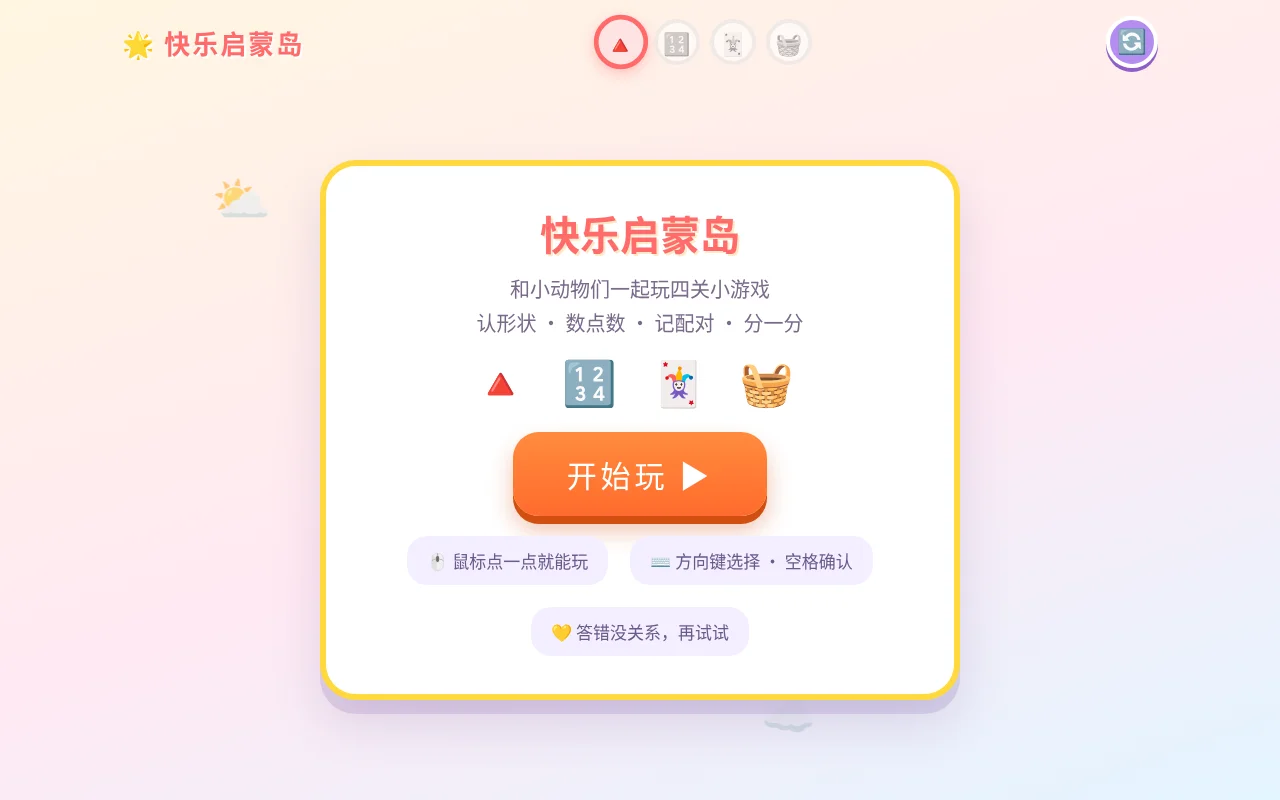
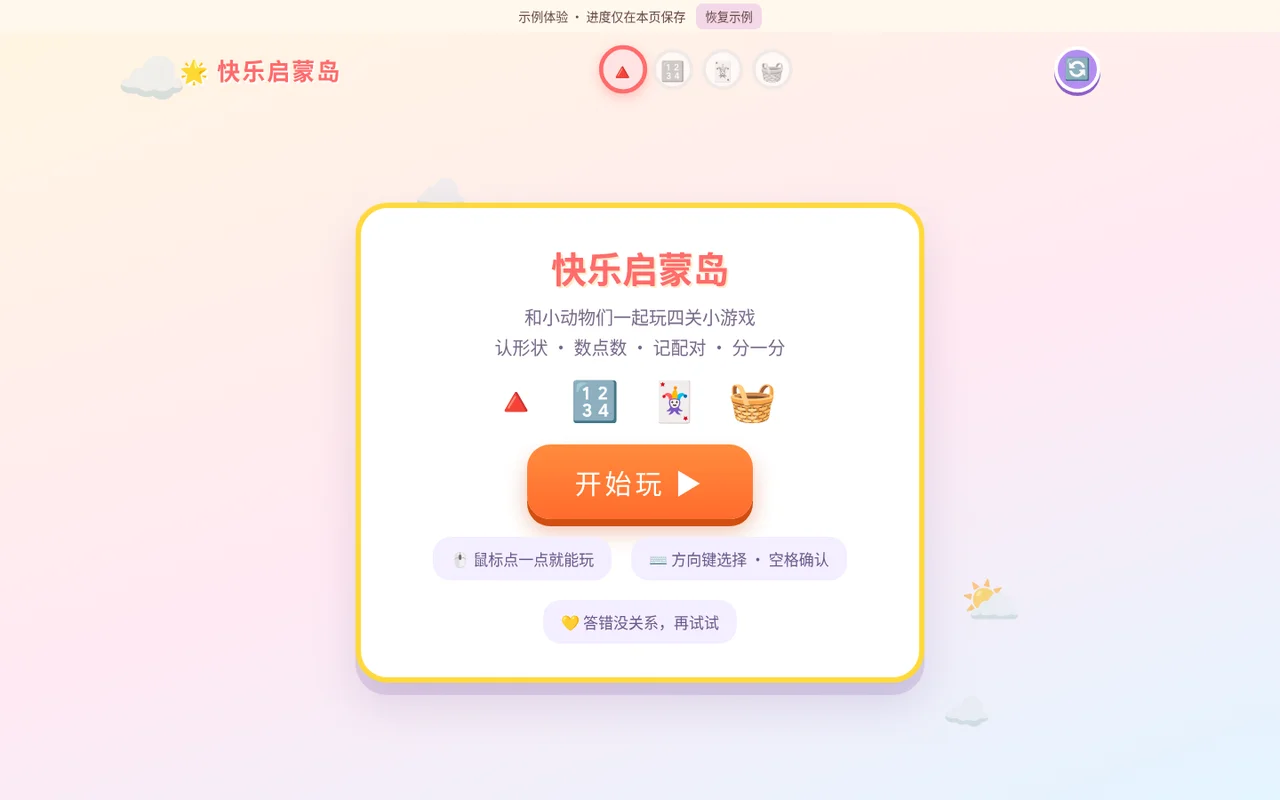
Add 快乐启蒙岛 template

diff --git a/435df1a7f45d2c1ea07795fe/showcase/preview.html b/435df1a7f45d2c1ea07795fe/showcase/preview.html
@@ -178,7 +178,7 @@
 </style>
 </head>
 <body>
-<div id="preview-bar"><span>示例体验 · 进度仅在本页保存</span><button type="button" onclick="location.reload()">恢复示例</button></div>
+<div id="preview-bar"><span>示例体验 · 进度仅在本页保存</span><button type="button" id="preview-reset">恢复示例</button></div>
 
 <div class="cloud">☁</div><div class="cloud">⛅</div><div class="cloud">☁</div><div class="cloud">☁</div>
 
@@ -251,6 +251,11 @@
 <script>
 (function(){
 'use strict';
+var previewTimers = new Set();
+var nativeTimeout = window.setTimeout.bind(window), nativeInterval = window.setInterval.bind(window);
+function setTimeout(fn, ms) { var id = nativeTimeout(function(){ previewTimers.delete(id); fn(); }, ms); previewTimers.add(id); return id; }
+function setInterval(fn, ms) { var id = nativeInterval(fn, ms); previewTimers.add(id); return id; }
+
 
 /* ================= 数据 ================= */
 var SHAPES = [
@@ -700,6 +705,15 @@ function finishGame(){
   setTimeout(centerBurst, 1100);
 }
 
+$('preview-reset').onclick = function(){
+  previewTimers.forEach(function(id){ window.clearTimeout(id); window.clearInterval(id); });
+  previewTimers.clear(); confettiTimer = null; bubbleTimer = null;
+  document.querySelectorAll('.particle,.confetti').forEach(function(el){ el.remove(); });
+  $('bubble').className = '';
+  state.levelIdx = 0; state.round = 0; state.locked = false; state.focusIndex = 0;
+  state.focusables = []; state.memFirst = null; state.memMatched = 0; state.sortQueue = []; state.sortDone = 0;
+  $('options-area').innerHTML = ''; renderDots(); showScreen('screen-start');
+};
 renderDots();
 })();
 </script>
